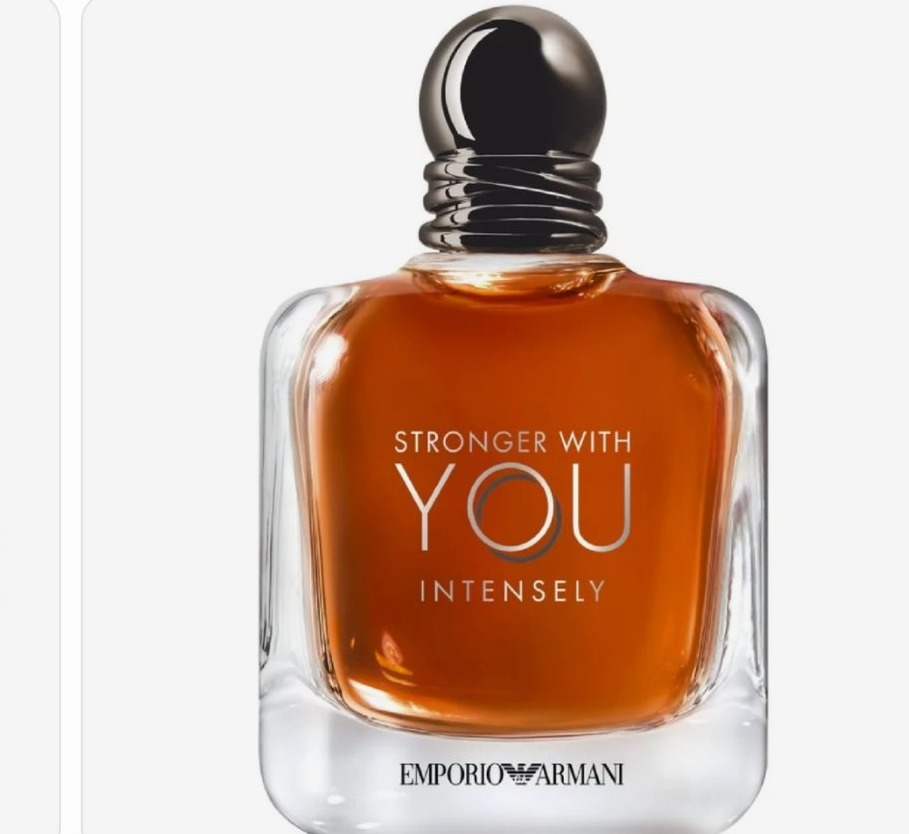
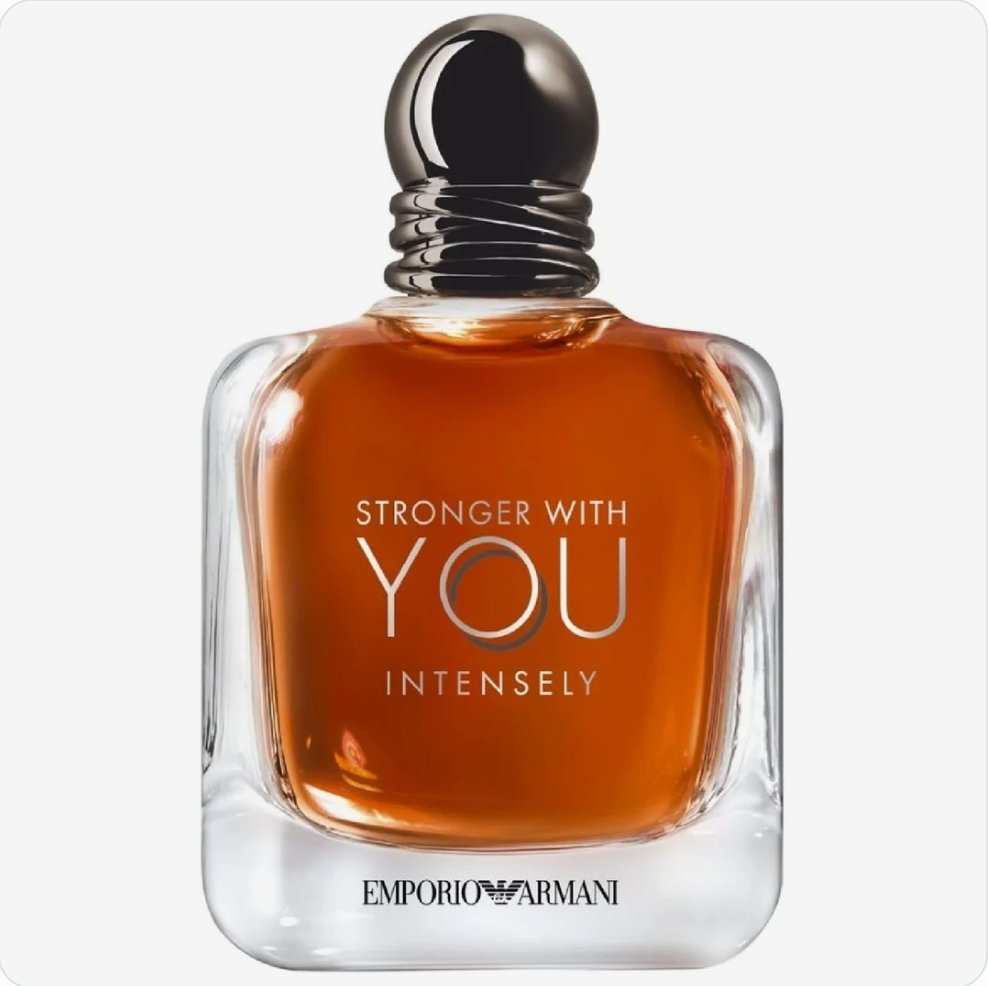
Replace Armani Stronger With You Intensely photos with Boss's new shots

Changed region(s): [[0.1848, 0.0, 0.8625, 1.0]]

diff --git a/index.html b/index.html
@@ -724,7 +724,7 @@
         { name:'Dior Sauvage Parfum Cologne for Men', niche:'Dior · Men · 3.4 oz Parfum', direction:'Citrus, spice and sandalwood', description:'A fresh citrus opening gains depth from smooth spice, resinous warmth and sandalwood. Refined and full-bodied, with a polished lasting trail.', category:'woody', images:[{src:'assets/product-dior-sauvage-parfum.jpg', alt:'Dior Sauvage Eau de Parfum bottle and box on a clean white background'},{src:'assets/product-dior-sauvage-parfum-2.jpg', alt:'Dior Sauvage Eau de Parfum bottle on a clean white background'},{src:'assets/product-dior-sauvage-parfum-3.jpg', alt:'Dior Sauvage Eau de Parfum bottle on a blue Dior graphic'}], price:165, decantPrice:41, originalPrice:180, featured:33 , paymentLink:'https://buy.stripe.com/7sY7sNaiZ8s41hE9SHf7i0J'},
         { name:'Jimmy Choo Perfume for Women', niche:'Jimmy Choo · Women · 3.3 oz EDP', direction:'Pear, orchid and sweet patchouli', description:'Juicy pear and a luminous floral heart settle into warm toffee-toned sweetness and patchouli. Glamorous and inviting without losing its elegance.', category:'sweet', images:[{src:'assets/product-jimmy-choo.jpg', alt:'Jimmy Choo perfume bottle on a clean white background'},{src:'assets/product-jimmy-choo-2.jpg', alt:'Jimmy Choo perfume bottle held in a campaign-style shot'}], price:62, decantPrice:16, originalPrice:75, featured:34 , paymentLink:'https://buy.stripe.com/14AbJ3cr75fSgcy8ODf7i0H'},
         { name:'French Avenue Vulcan Feu Perfume for Unisex', niche:'French Avenue · Unisex · 3.4 oz EDP', direction:'Tropical fruit, ginger and warm woods', description:'A vivid tropical-fruit opening meets bright ginger before settling into warm, smooth woods. Colorful and energetic with an easy unisex character.', category:'fresh', images:[{src:'assets/product-french-avenue-vulcan-feu.jpg', alt:'French Avenue Vulcan Feu turquoise bottle and box — clean packshot'},{src:'assets/gallery-french-avenue-vulcan-feu-1.jpg', alt:'French Avenue Vulcan Feu Perfume for Unisex — customer photo 1'},{src:'assets/gallery-french-avenue-vulcan-feu-3.jpg', alt:'French Avenue Vulcan Feu Perfume for Unisex — customer photo 2'}], price:39, decantPrice:10, originalPrice:50, featured:35 , paymentLink:'https://buy.stripe.com/aFa3cx9eVaAc7G23ujf7i0X'},
-        { name:'Emporio Armani Stronger With You Intensely Cologne for Men', niche:'Emporio Armani · Men · 3.3 oz EDP', direction:'Pink pepper, toffee and vanilla amber', description:'A spicy opening melts into sweet toffee, vanilla and warm amber woods. Dense, comforting and especially suited to cool-weather evenings.', category:'sweet', images:[{src:'assets/product-armani-stronger-with-you-intensely.jpg', alt:'Emporio Armani Stronger With You Intensely bottle and box — clean packshot'},{src:'assets/gallery-armani-stronger-with-you-intensely-1.jpg', alt:'Emporio Armani Stronger With You Intensely Cologne for Men — customer photo 1'}], price:99, decantPrice:25, originalPrice:120, featured:36 , paymentLink:'https://buy.stripe.com/5kQ6oJ3UBgYA0dAc0Pf7i0W'},
+        { name:'Emporio Armani Stronger With You Intensely Cologne for Men', niche:'Emporio Armani · Men · 3.3 oz EDP', direction:'Pink pepper, toffee and vanilla amber', description:'A spicy opening melts into sweet toffee, vanilla and warm amber woods. Dense, comforting and especially suited to cool-weather evenings.', category:'sweet', images:[{src:'assets/product-armani-stronger-with-you-intensely.jpg', alt:'Emporio Armani Stronger With You Intensely bottle and box on a clean white background'},{src:'assets/gallery-armani-stronger-with-you-intensely-1.jpg', alt:'Emporio Armani Stronger With You Intensely bottle close-up'},{src:'assets/gallery-armani-stronger-with-you-intensely-2.jpg', alt:'Emporio Armani Stronger With You Intensely bottle on a clean white background'}], price:99, decantPrice:25, originalPrice:120, featured:36 , paymentLink:'https://buy.stripe.com/5kQ6oJ3UBgYA0dAc0Pf7i0W'},
         { name:'Versace Eros Cologne for Men (Tester)', niche:'Versace · Men · 3.4 oz EDT · Tester', direction:'Mint, green apple and vanilla woods', description:'Tester version: the authentic 3.4 oz fragrance supplied in tester packaging rather than standard retail presentation. Bright mint and apple lead into aromatic warmth, vanilla and smooth woods.', category:'fresh', images:[{src:'assets/product-versace-eros-tester.jpg', alt:'Versace Eros tester bottle and box on a clean white background'},{src:'assets/gallery-versace-eros-1.jpg', alt:'Versace Eros bottle in a styled apple and vanilla flat-lay'},{src:'assets/gallery-versace-eros-2.jpg', alt:'Versace Eros bottle in a styled floral composition'},{src:'assets/gallery-versace-eros-3.jpg', alt:'Versace Eros bottle on a clean white background'}], price:55, decantPrice:14, originalPrice:68, featured:37 , paymentLink:'https://buy.stripe.com/cNi00laiZaAc6BY7Kzf7i0K'},
         { name:'Afnan Supremacy Collector\'s Edition Perfume for Unisex', niche:'Afnan · Unisex · 3.4 oz EDP', direction:'Bright fruit, saffron and smoky woods', description:'Vibrant fruit and saffron open with clarity before smoky woods and amber bring depth. Polished and assertive with a versatile unisex profile.', category:'woody', images:[{src:'assets/product-afnan-supremacy-collectors.jpg', alt:'Afnan Supremacy Collector’s Edition speckled bottle in a styled dark composition'},{src:'assets/gallery-afnan-supremacy-collectors-edition-1.jpg', alt:'Afnan Supremacy Collector’s Edition bottle and box with notes breakdown ad'},{src:'assets/gallery-afnan-supremacy-collectors-edition-2.jpg', alt:'Afnan Supremacy Collector’s Edition rating and fragrance profile graphic'}], price:59, decantPrice:15, originalPrice:72, featured:38 , paymentLink:'https://buy.stripe.com/5kQfZj1Mt5fS5xUaWLf7i0T'},
         { name:'Versace Dylan Blue Cologne for Men', niche:'Versace · Men · 3.4 oz EDT', direction:'Aquatic citrus, incense and dark musk', description:'Fresh aquatic citrus and aromatics are sharpened by incense, woods and dark musk. Clean and confident with enough depth for day or night.', category:'fresh', images:[{src:'assets/product-versace-dylan-blue.jpg', alt:'Versace Dylan Blue dark blue bottle on a clean white background'},{src:'assets/gallery-versace-dylan-blue-1.jpg', alt:'Versace Dylan Blue bottle with citrus and green ingredients'},{src:'assets/gallery-versace-dylan-blue-2.jpg', alt:'Versace Dylan Blue campaign visual with model'}], price:68, decantPrice:17, originalPrice:82, featured:39 , paymentLink:'https://buy.stripe.com/eVqdRbdvb8s4aSe4ynf7i0U'},
